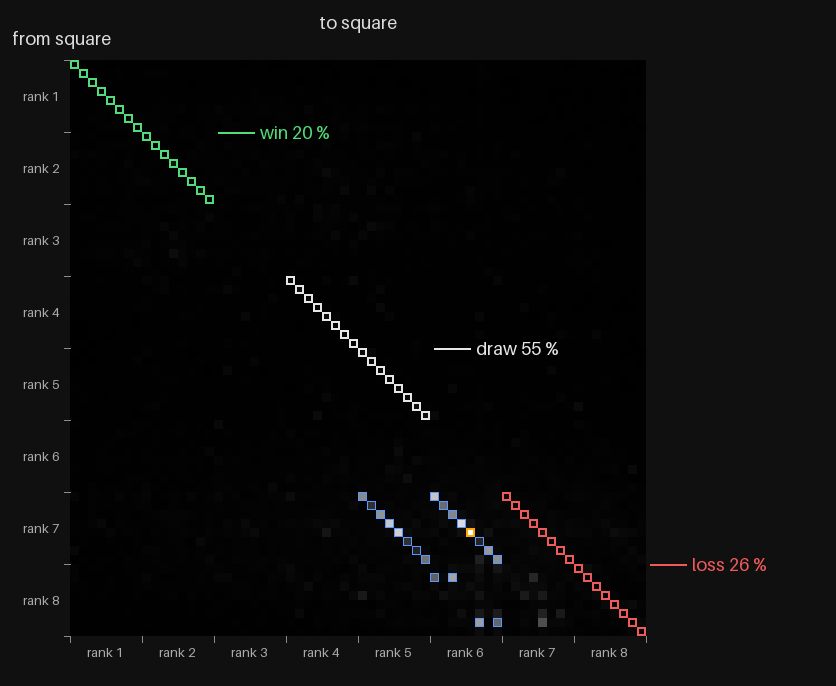
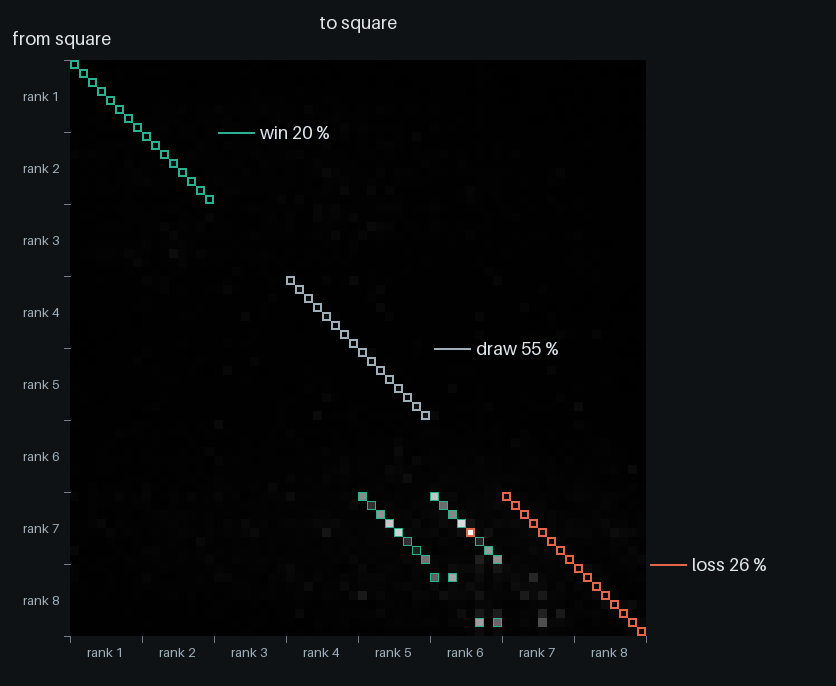
Example: chess pictures in the website's colors

diff --git a/examples/chess_input_output.py b/examples/chess_input_output.py
@@ -27,6 +27,11 @@ w, d, l = (float(x) for x in pick.wdl)
 print(f"the crystal plays {ch.san(pos, pick.move)}; win / draw / loss {100 * w:.0f} / {100 * d:.0f} / {100 * l:.0f} %")
 
 
+# the colors of neuralcrystal.com
+BG, INK, INK2, INK3 = (14, 18, 21), (223, 230, 234), (159, 176, 186), (111, 128, 138)
+ACCENT, WIRE = (230, 102, 74), (40, 178, 146)
+
+
 def font(px):
     try:
         return ImageFont.load_default(size=px)
@@ -39,24 +44,24 @@ def font(px):
 frames = ch.frames([pos])
 art = ch.render96(ch.view(pos, ch.look_of(crystal).side)[0], ch.look_of(crystal))
 S, LM = 5, 330                                                       # 5 × 5 screen pixels a picture pixel, room for labels on the left
-bimg = Image.new("RGB", (LM + 96 * S + 20, 96 * S + 20), (16, 16, 16))
+bimg = Image.new("RGB", (LM + 96 * S + 20, 96 * S + 20), BG)
 bimg.paste(Image.fromarray(np.kron((art * 255).astype(np.uint8), np.ones((S, S), np.uint8))).convert("RGB"), (LM, 10))
 bd = ImageDraw.Draw(bimg)
 black_to_move = pos.turn == "b"
 marks = [  # (rect in art pixels, label, color)
-    (ch.LAMP["crystalT"] if black_to_move else ch.LAMP["crystalB"], "the crystal's side (it plays black)", (120, 200, 255)),
-    (ch.LAMP["castle"]["q"], "castling: black queenside", (255, 190, 80)),
-    (ch.LAMP["castle"]["k"], "castling: black kingside", (255, 190, 80)),
-    (ch.LAMP["turnB"], "turn light: black to move", (120, 230, 140)),
-    (ch.LAMP["turnW"], "turn light: white to move", (120, 230, 140)),
-    (ch.LAMP["castle"]["Q"], "castling: white queenside", (255, 190, 80)),
-    (ch.LAMP["castle"]["K"], "castling: white kingside", (255, 190, 80)),
+    (ch.LAMP["crystalT"] if black_to_move else ch.LAMP["crystalB"], "the crystal's side (it plays black)", ACCENT),
+    (ch.LAMP["castle"]["q"], "castling: black queenside", WIRE),
+    (ch.LAMP["castle"]["k"], "castling: black kingside", WIRE),
+    (ch.LAMP["turnB"], "turn light: black to move", INK2),
+    (ch.LAMP["turnW"], "turn light: white to move", INK2),
+    (ch.LAMP["castle"]["Q"], "castling: white queenside", WIRE),
+    (ch.LAMP["castle"]["K"], "castling: white kingside", WIRE),
 ]
 ys = np.linspace(28, 96 * S - 18, len(marks))                        # label rows, spread down the left margin
-for (x, y, w, h), (label, color), ly in zip([m[0] for m in marks], [(m[1], m[2]) for m in marks], ys):
-    rx0, ry0, rx1, ry1 = LM + x * S - 1, 10 + y * S - 1, LM + (x + w) * S, 10 + (y + h) * S
+for (mx, my, mw, mh), (label, color), ly in zip([m[0] for m in marks], [(m[1], m[2]) for m in marks], ys):
+    rx0, ry0, rx1, ry1 = LM + mx * S - 1, 10 + my * S - 1, LM + (mx + mw) * S, 10 + (my + mh) * S
     bd.rectangle([rx0, ry0, rx1, ry1], outline=color, width=2)
-    bd.text((12, ly), label, fill=color, font=font(17), anchor="lm")
+    bd.text((12, ly), label, fill=INK, font=font(17), anchor="lm")
     tx = 12 + bd.textlength(label, font=font(17)) + 8
     bd.line([tx, ly, rx0 - 2, (ry0 + ry1) / 2], fill=color, width=1)
 bimg.save(board_path)
@@ -67,7 +72,7 @@ mm = ch.move_map(crystal, E)[0].cpu().double().numpy()
 mm = (mm / mm.max()) ** 0.5
 C, L, T = 9, 70, 60                                                  # cell size, left and top margins for the labels
 size = 64 * C
-img = Image.new("RGB", (L + size + 190, T + size + 50), (16, 16, 16))
+img = Image.new("RGB", (L + size + 190, T + size + 50), BG)
 cells = np.kron((mm * 255).astype(np.uint8), np.ones((C, C), np.uint8))
 img.paste(Image.fromarray(np.stack([cells] * 3, -1)), (L, T))
 g = ImageDraw.Draw(img)
@@ -79,26 +84,26 @@ def box(r, c, color, wd=1):
 
 
 for cell, m in ch.legal_cells(pos).items():
-    f, t = ch.cell_move(cell); box(f, t, (90, 150, 255))
-f, t = next(ch.cell_move(c) for c, m in ch.legal_cells(pos).items() if m == pick.move); box(f, t, (255, 170, 0), 2)
+    f, t = ch.cell_move(cell); box(f, t, WIRE)
+f, t = next(ch.cell_move(c) for c, m in ch.legal_cells(pos).items() if m == pick.move); box(f, t, ACCENT, 2)
 
 # the value readout: three runs of the diagonal
-runs = {"win": ((0, 15), (80, 220, 120)), "draw": ((24, 39), (230, 230, 230)), "loss": ((48, 63), (240, 90, 90))}
+runs = {"win": ((0, 15), WIRE), "draw": ((24, 39), INK2), "loss": ((48, 63), ACCENT)}
 share = {"win": w, "draw": d, "loss": l}
 for name, ((a, b), color) in runs.items():
     for sq in range(a, b + 1): box(sq, sq, color, 2)              # each cell of the run, on the diagonal
     xm, ym = L + (b + 1) * C, T + ((a + b + 1) / 2) * C
     g.line([xm + 4, ym, xm + 40, ym], fill=color, width=2)
-    g.text((xm + 46, ym), f"{name} {100 * share[name]:.0f} %", fill=color, font=font(18), anchor="lm")
+    g.text((xm + 46, ym), f"{name} {100 * share[name]:.0f} %", fill=INK, font=font(18), anchor="lm")
 
 # axes: rank boundaries every 8 squares
 for k in range(9):
-    g.line([L + 8 * k * C, T + size, L + 8 * k * C, T + size + 6], fill=(140, 140, 140))
-    g.line([L - 6, T + 8 * k * C, L, T + 8 * k * C], fill=(140, 140, 140))
+    g.line([L + 8 * k * C, T + size, L + 8 * k * C, T + size + 6], fill=INK3)
+    g.line([L - 6, T + 8 * k * C, L, T + 8 * k * C], fill=INK3)
 for k in range(8):
-    g.text((L + (8 * k + 4) * C, T + size + 16), f"rank {k + 1}", fill=(170, 170, 170), font=font(13), anchor="mm")
-    g.text((L - 10, T + (8 * k + 4) * C), f"rank {k + 1}", fill=(170, 170, 170), font=font(13), anchor="rm")
-g.text((L + size / 2, 22), "to square", fill=(220, 220, 220), font=font(18), anchor="mm")
-g.text((12, T - 22), "from square", fill=(220, 220, 220), font=font(18), anchor="lm")
+    g.text((L + (8 * k + 4) * C, T + size + 16), f"rank {k + 1}", fill=INK2, font=font(13), anchor="mm")
+    g.text((L - 10, T + (8 * k + 4) * C), f"rank {k + 1}", fill=INK2, font=font(13), anchor="rm")
+g.text((L + size / 2, 22), "to square", fill=INK, font=font(18), anchor="mm")
+g.text((12, T - 22), "from square", fill=INK, font=font(18), anchor="lm")
 img.save(map_path)
 print(f"wrote {board_path} and {map_path}")
